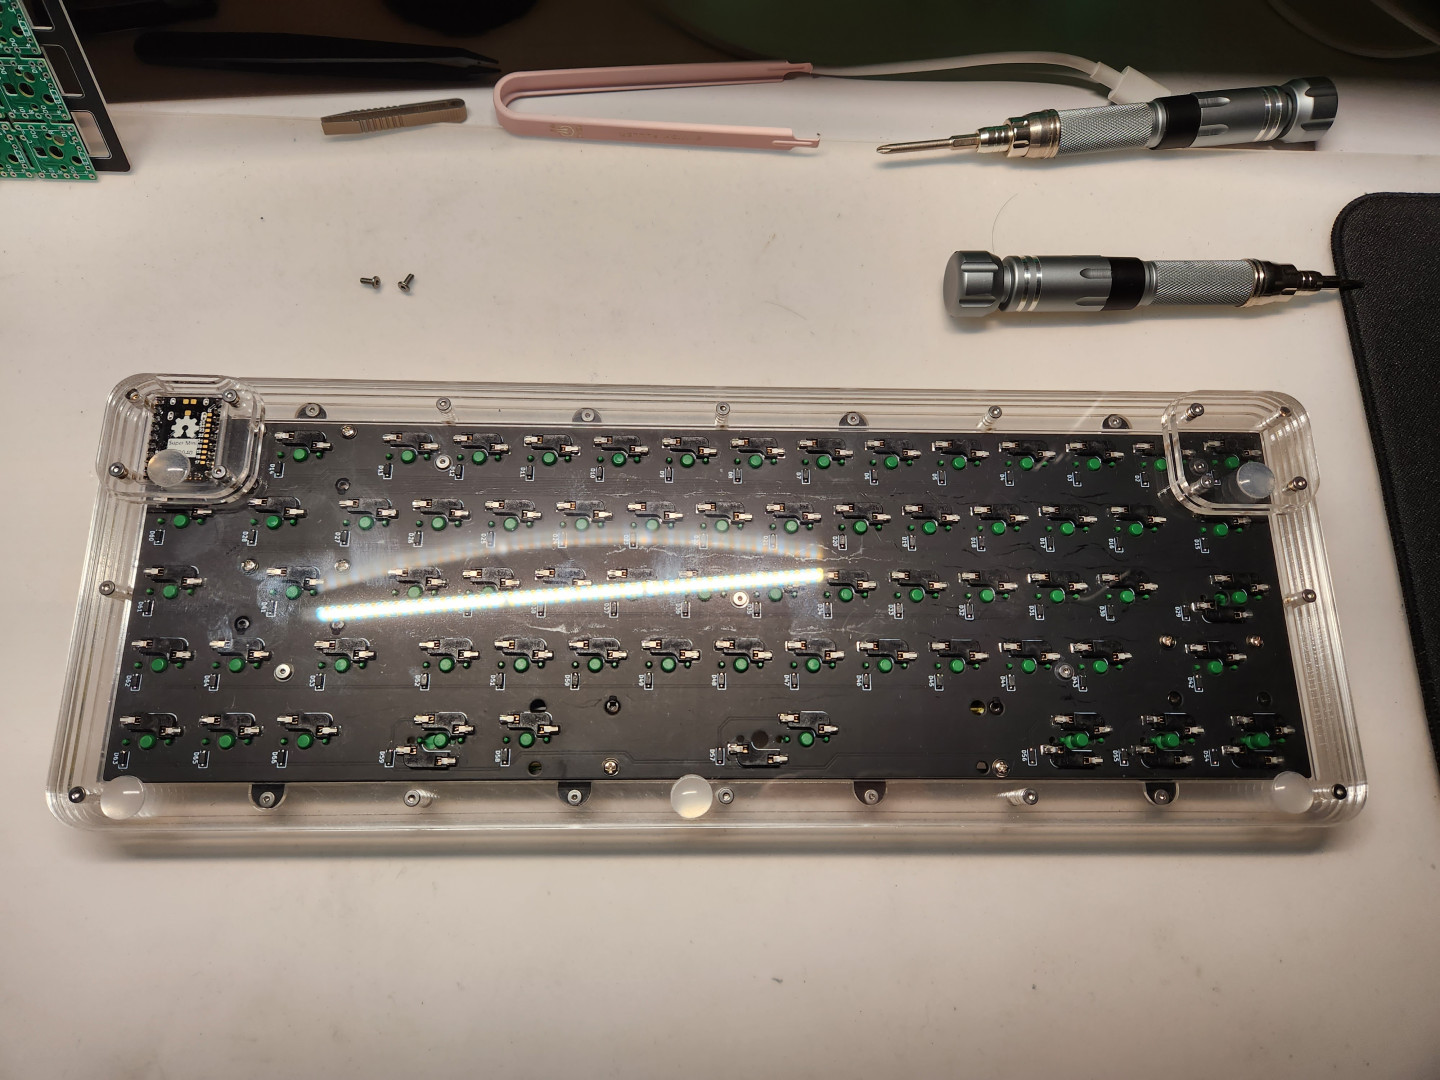
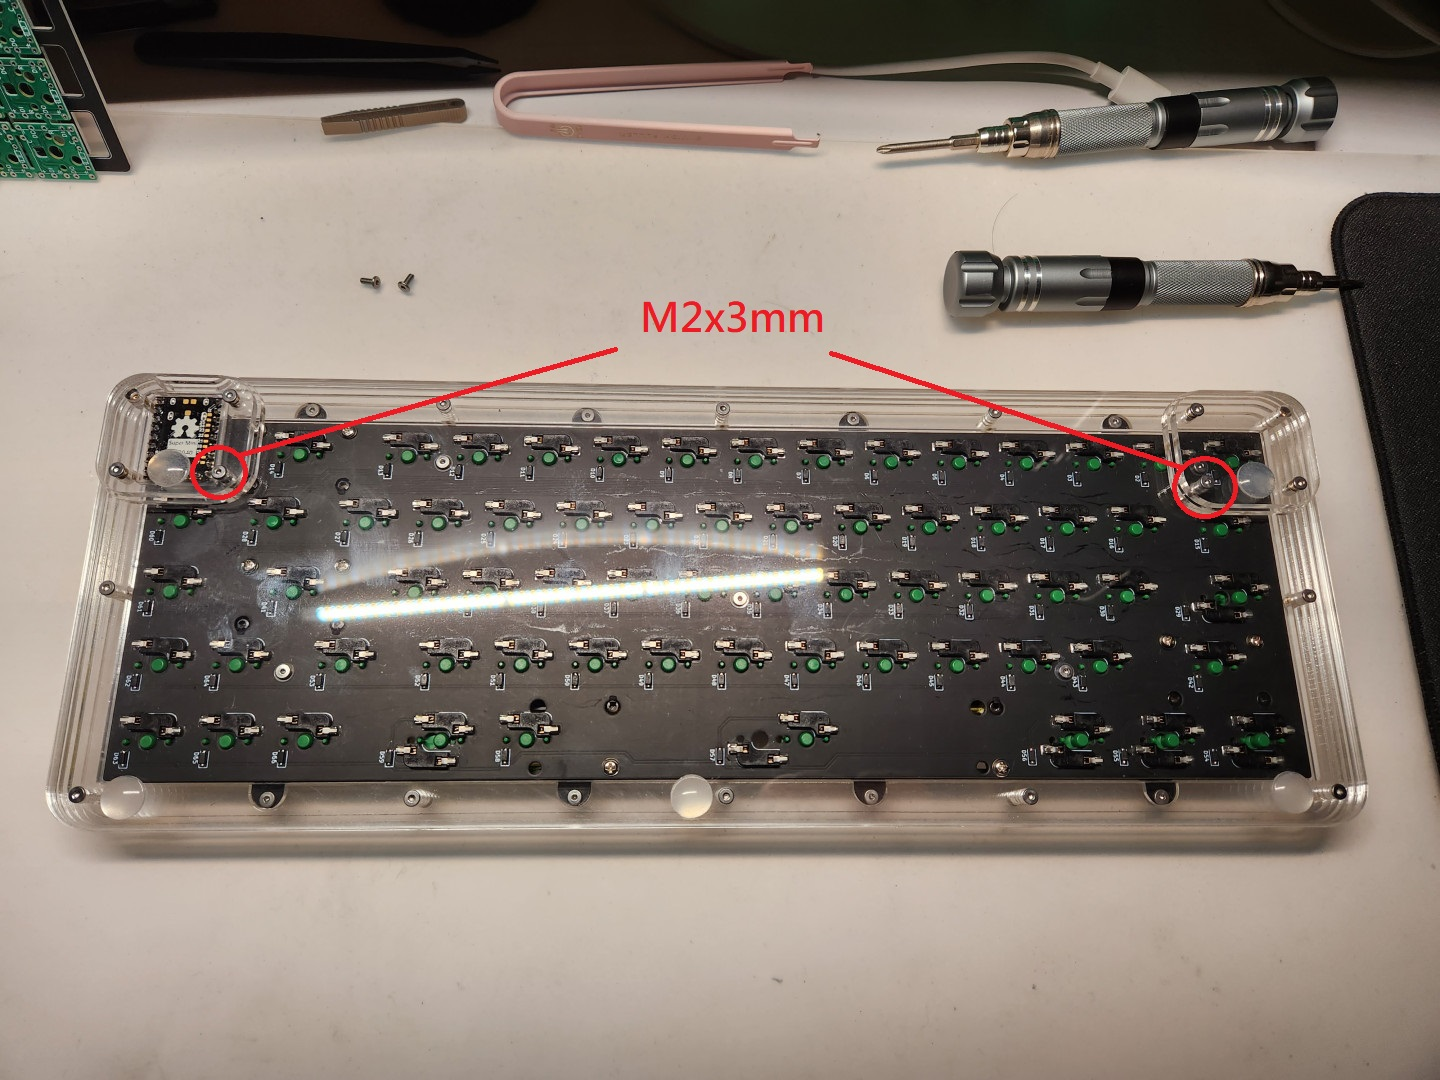
update guide.md

diff --git a/guide.md b/guide.md
@@ -43,7 +43,7 @@
 ![](pic/011.jpg)
 
 - 熱插拔座、二極體、MCU安裝好之後會是這個樣子。
-- IF you finished installing hotswap sockets, diodes and MCU, check picture below, it finally looks like the picture below.
+- IF you finished installing hotswap sockets, diodes and MCU, check picture, it finally looks like the picture below.
 
 ![](pic/012.jpg)
 
@@ -106,10 +106,16 @@
 ![](pic/057.jpg)
 ![](pic/059.jpg)
 
+- 再來將15個橡膠圈以3個為一組平均分配在5個銅柱上。
+- Distribute the `15 O-rings` in groups of 3 evenly among the 5 spacers.
+
+![](pic/060.jpg)
+![](pic/061.jpg)
+![](pic/062.jpg)
+
 - 接著再將PCB及定位板合併在一起。
 - Next, combine the PCB and the positioning board together.
 
-![](pic/058.jpg)
 ![](pic/027.jpg)
 
 - 從背面加上墊片後，再繼續鎖上螺絲固定。
@@ -125,3 +131,84 @@
 ![](pic/031.jpg)
 
 ## 四、外殼組裝（Install Case）
+
+- 這裡的照片是舊的，不過不會影響安裝；首先將所有定製的壓克力外框上頭的保護紙撕除。
+- Here's an old photo, but it won't affect the installation; first remove the protective paper from the top of all arcylic cases.
+
+![](pic/058.jpg)
+
+- 首先我們從第一層開始安裝，這邊準備好`M2x4mm`、`M2x5mm`螺絲；`M2x3mm`、`M2x12mm`、`M2x18mm`銅柱。
+- First we start on the first plate, prepare `M2x4mm`, `M2x4mm` screws; `M2x3mm`, `M2x12mm`, `M2x18mm` spacers. 
+
+![](pic/032.jpg)
+
+- M2x18mm銅柱、M2x5mm螺絲。
+- M2x18mm spacers, M2x5mm screws.
+
+![](pic/033.jpg)
+
+- M2x12mm銅柱、M2x5mm螺絲。
+- M2x12mm spacers, M2x5mm screws.
+
+![](pic/034.jpg)
+
+- M2x3mm銅柱、M2x4mm螺絲。
+- M2x3mm spacers, M2x4mm screws.
+
+![](pic/035.jpg)
+
+- 接著依序將第二層、三層堆疊上去。
+- Next put the second, third plate stacking together.
+
+![](pic/036.jpg)
+![](pic/037.jpg)
+
+- 再來將PCB及定位板用`M2x3mm`螺絲固定上去。
+- Then fix the PCB and plate with `M2x3mm` screws.
+
+![](pic/038.jpg)
+![](pic/039.jpg)
+
+- PCB固定好之後，再將第四、五層疊上去。
+- After fixing the PCB and plate, then put stacking the 4th plate.
+
+![](pic/040.jpg)
+
+- 接著將第六層底板拿出來，使用M2x5mm螺絲，在照片上的位置安裝M2x5mm銅柱
+- Next you need to use M2x5mm screws, install M2x5mm spacers like the picture below.
+
+![](pic/042.jpg)
+
+- 再來將第六層堆疊上去，用M2x5mm螺絲將外殼固定好。
+- Then stacking the 6th plate, and use M2x5mm screws to lock the case.
+
+![](pic/043.jpg)
+![](pic/044.jpg)
+![](pic/045.jpg)
+
+- 接著將第七、八層、M2x5mm螺絲、M2x5mm銅柱拿出來，依照照片上的位置安裝。
+- Then you need to install M2x5mm screws and spacers on the 7th/8th plate, like picture.
+
+![](pic/046.jpg)
+
+- 最後將左右邊的腳放在鍵盤上，用M2x5mm、M2x3mm螺絲固定好。
+- Last step, putting the 7th/8th plate on left and right side, then use M2x5mm, M2x3mm screws screw the case.
+
+![](pic/047.jpg)
+![](pic/048.jpg)
+![](pic/049.jpg)
+![](pic/050.jpg)
+![](pic/051.jpg)
+![](pic/052.jpg)
+
+- 將腳墊安裝上去。
+- Install the rubber feets.
+
+![](pic/053.jpg)
+
+- 這樣就完成了。
+- Done。
+
+![](pic/054.jpg)
+![](pic/055.jpg)
+![](pic/rp0.jpg)
